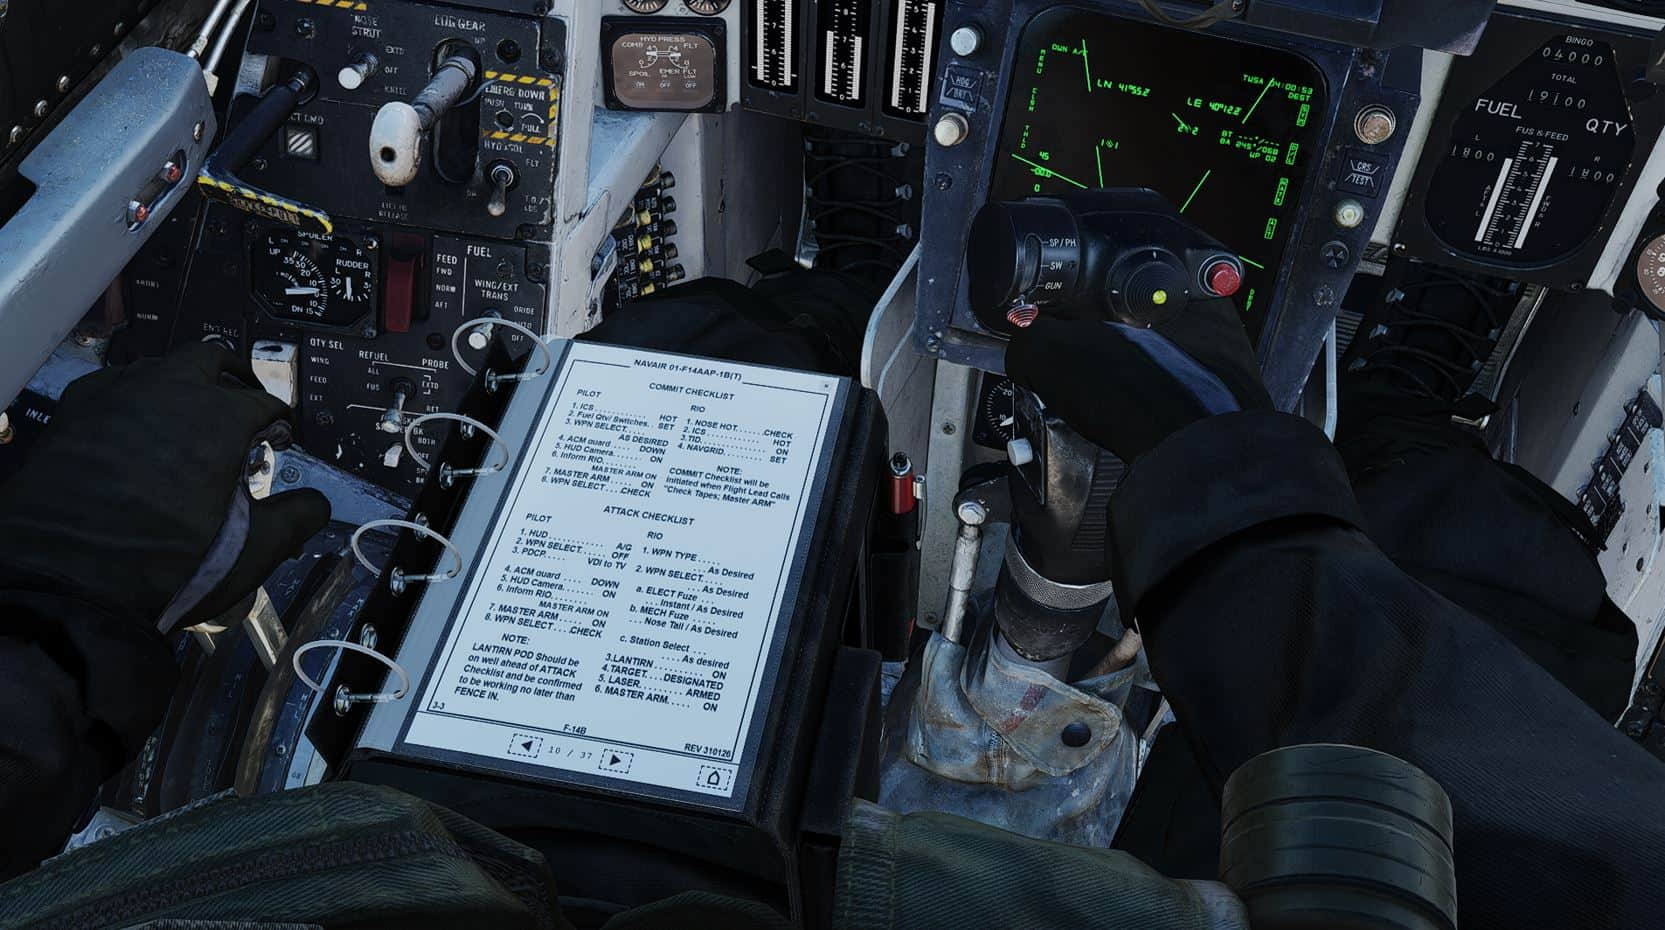
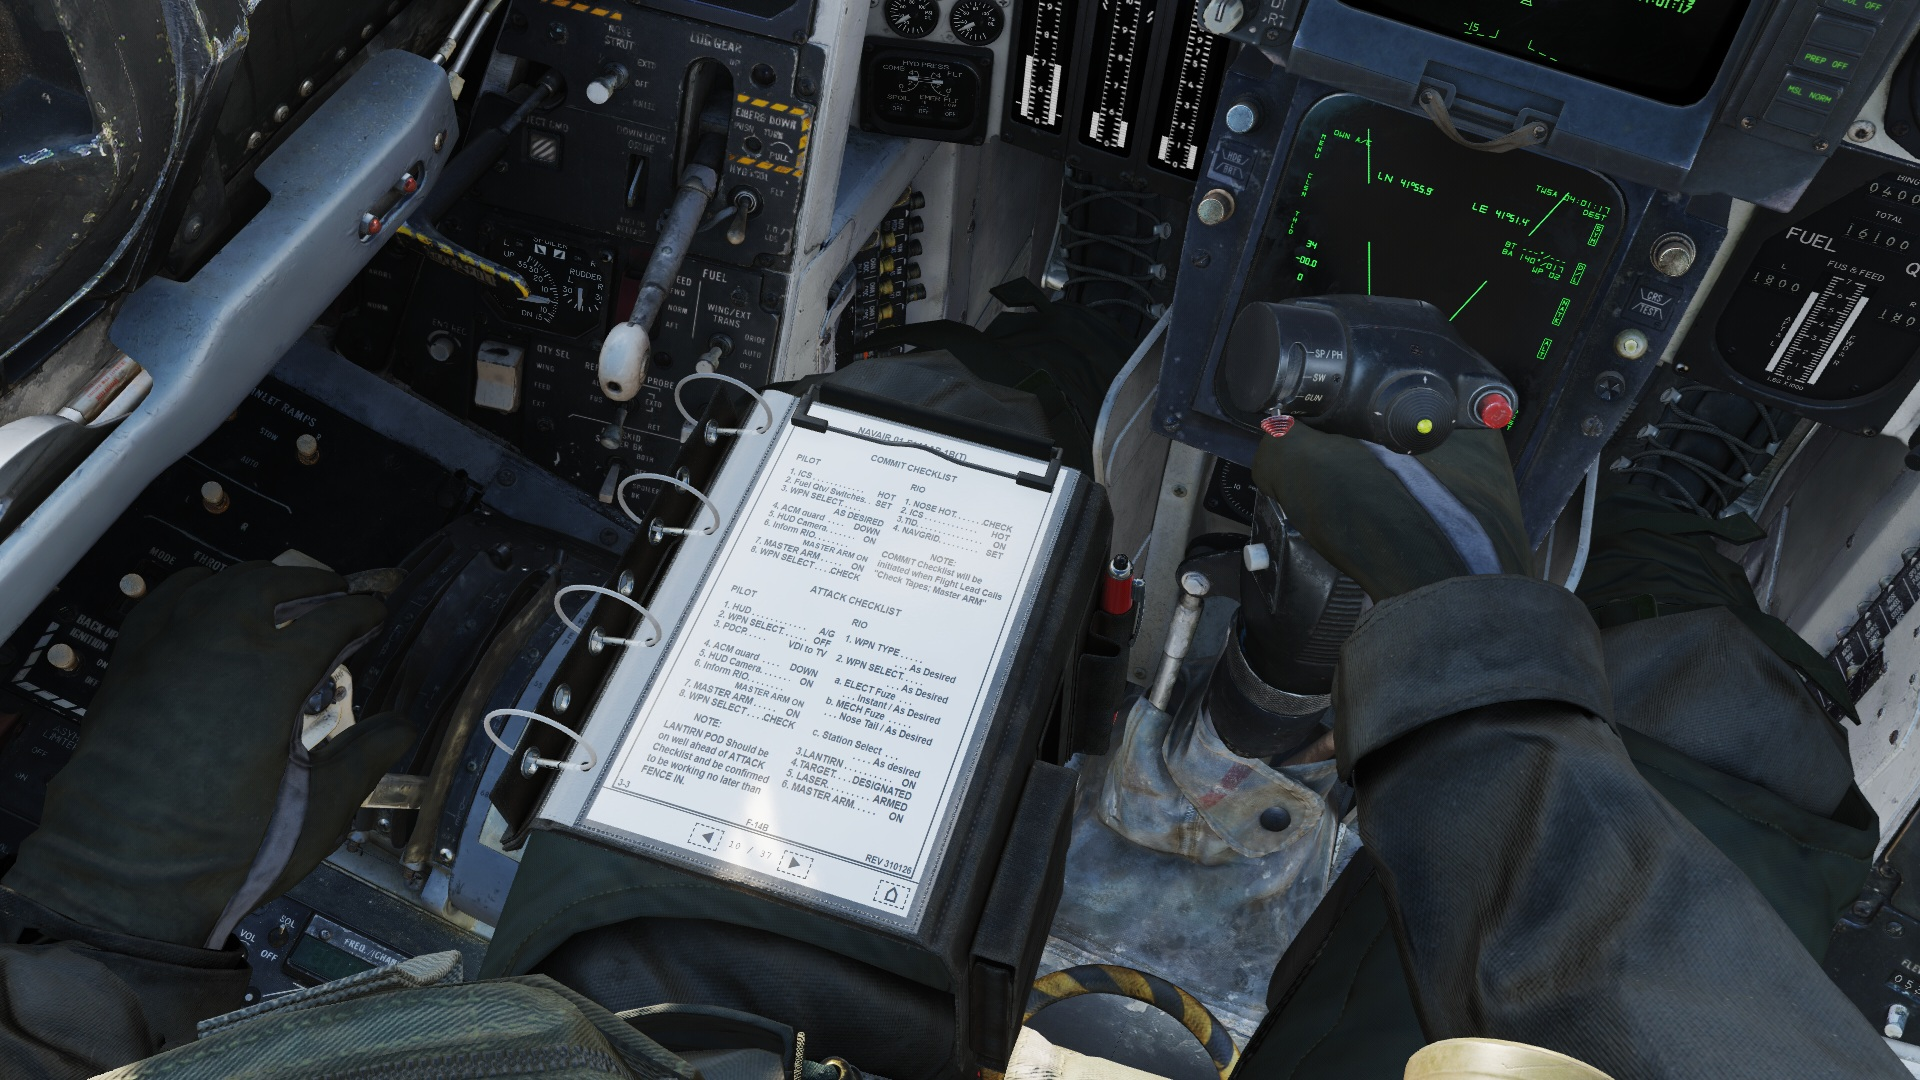
Checklist tool content + image update

diff --git a/src/f14bu/dcs/checklist_tool.md b/src/f14bu/dcs/checklist_tool.md
@@ -1,11 +1,18 @@
 # Checklist Tool
 
-Both crew members can access the Checklist Tool, which provides the crew with
-Normal Procedure, Attack & Emergency Checklists, as well as aircraft reference
+The checklist tool is present on both Pilot & RIO 3D models, on the left leg. 
+It also remains fully interactive on the 3D model itself, without the need to open it via the keybind.
+The Pilot / RIO 3D models have a default keybinding of <kbd>RSHIFT</kbd> + <kbd>P</kbd>.
+
+In order to cycle kneeboard configurations, the clamp at the top of the kneeboard must be clicked.
+
+## Checklist Configuration
+
+The checklists included provides the crew with Normal Procedure, Attack & Emergency Checklists, as well as aircraft reference
 data. The checklist procedures are an abridged version of the checklists found
 in the NAVAIR 01-F14AAP-1B NATOPS Pocket Checklist.
 
-The Checklist Tool can be interacted with the mouse in the cockpit. Navigation
+The Checklist configuration can be interacted with the mouse in the cockpit. Navigation
 works as follows:
 
 - Each of the 11 sections can be quickly skipped to from the front contents page
@@ -14,11 +21,25 @@ works as follows:
   navigation bar.
 - Return to the contents page via the **Home** icon on the bottom right.
 
-The checklist tool is present on both Pilot & RIO 3D models, on the left leg. It
-also remains fully interactive on the 3D model itself, without the need to open
-it via the keybind. The tool has a default keybinding of **RCtrl+C**.
+ The 2D version of the Checklist configuration has a default keybinding of <kbd>RCTRL</kbd> + <kbd>C</kbd>.
 
 ![Checklist Tool Example](../../img/bu/checklist_tool_example.jpg)
 
-> 💡 In order to close the checklist tool, make sure to first remove keyboard focus from
+## Clipboard Configuration
+
+The clipboard configuration provides the crew with the familiar DCS kneeboard on the Pilot & RIO models.
+
+Pages can be cycled in desired direction by clicking on the left or right side of the page.
+
+In order to access the clipboard configuration, the clamp at the top of the kneeboard must be clicked. This will cycle through the tool configurations.
+
+![Checklist Tool Example 2](../../img/bu/checklist_tool_example_2.jpg)
+
+Alternatively, you can change pages through using the regular keybinds, default:
+- <kbd>]</kbd> - Page Up
+- <kbd>[</kbd> - Page Down
+
+The 2D version of the Clipboard configuration has a default keybinding of <kbd>RSHIFT</kbd> + <kbd>K</kbd>.
+
+> 💡 In order to close the 2D checklist tool, make sure to first remove keyboard focus from
 > it by clicking anywhere else in the cockpit.